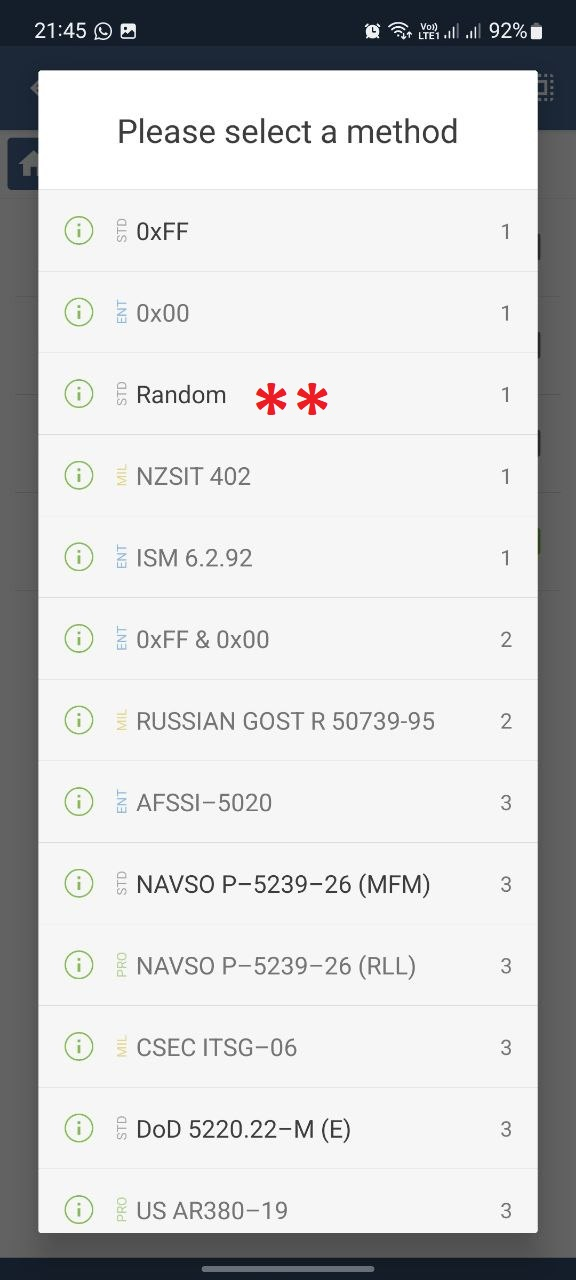
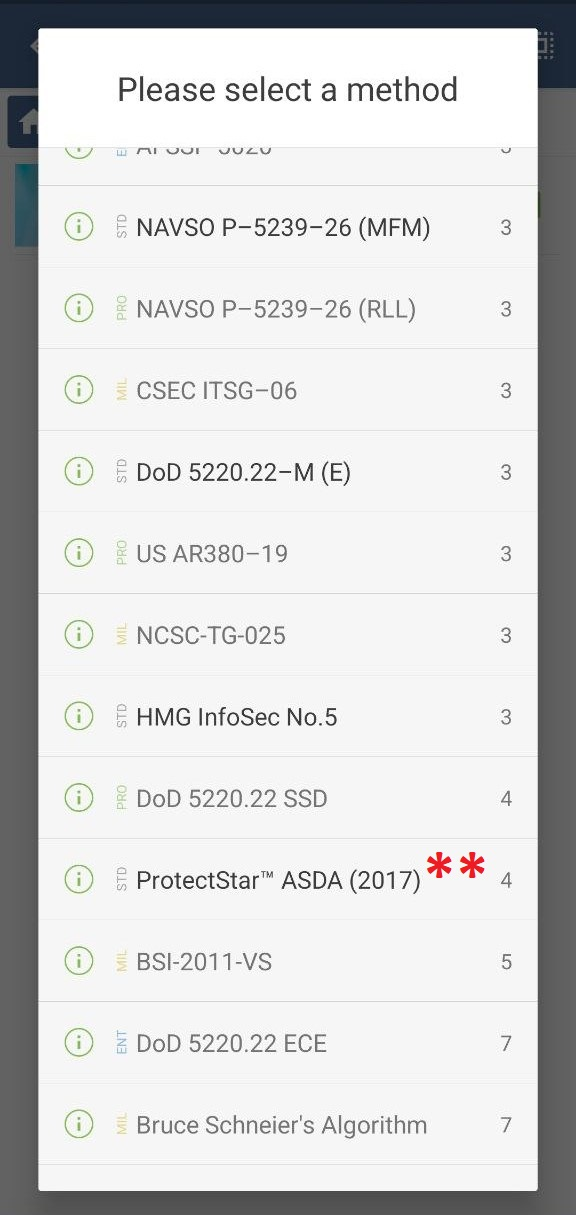
fix ishredder and google imgs

diff --git a/src/components/Workspace.jsx b/src/components/Workspace.jsx
@@ -70,7 +70,7 @@ const Workspace = () => {
 					</div>
 				</div>
 
-				<div class="content content-2 info" id="gmail">
+				<div class="content content-2 info gmail" id="gmail">
 					<h3>
 						خدمة جيميل أو البريد الإلكتروني{' '}
 						<a
@@ -110,7 +110,7 @@ const Workspace = () => {
 					</ul>
 				</div>
 
-				<div class="content content-2 info" id="calender">
+				<div class="content content-2 info calender" id="calender">
 					<h3>
 						خدمة التقويم من جوجل{' '}
 						<a
@@ -167,7 +167,7 @@ const Workspace = () => {
 					</ul>
 				</div>
 
-				<div class="content content-2 info" id="meet">
+				<div class="content content-2 info meet" id="meet">
 					<h3>
 						خدمة الاتصال ومكالمات الفيديو من جوجل{' '}
 						<a
@@ -224,7 +224,7 @@ const Workspace = () => {
 					</ul>
 				</div>
 
-				<div class="content content-2 info" id="drive">
+				<div class="content content-2 info drive" id="drive">
 					<h3>
 						خدمة إدارة الملفات من جوجل{' '}
 						<a
@@ -310,7 +310,7 @@ const Workspace = () => {
 					</ul>
 				</div>
 
-				<div class="content content-2 info" id="chat">
+				<div class="content content-2 info chat" id="chat">
 					<h3>
 						خدمة المحادثات أو الشات من جوجل{' '}
 						<a href=" https://mail.google.com/chat/u/0/#chat/welcome" target="_blank">

diff --git a/src/components/Ishredder.jsx b/src/components/Ishredder.jsx
@@ -279,7 +279,8 @@ const Ishredder = () => {
 								<ul className="shild-list">
 									<li>
 										نقوم بتحديد خوارزمية الحذف والكتابة فوق الملفات ليتم حذفها بطريقة
-										آمنة، من الأفضل أن نختار الخيار "Random"
+										آمنة، من الأفضل أن نختار الخيار "ProtectStar ASDA (2017)" حيث يقوم
+										بالكتابة 4 مرات فوق البيانات المحذوفة بحيث لا يمكن استعادتها
 									</li>
 								</ul>
 								<div className="image">
@@ -413,7 +414,8 @@ const Ishredder = () => {
 								<ul className="child-list">
 									<li>
 										نقوم بتحديد خوارزمية الحذف والكتابة فوق الملفات ليتم حذفها بطريقة
-										آمنة، من الأفضل أن نختار الخيار "Random"
+										آمنة، من الأفضل أن نختار الخيار "ProtectStar ASDA (2017)" حيث يقوم
+										بالكتابة 4 مرات فوق البيانات المحذوفة بحيث لا يمكن استعادتها
 									</li>
 								</ul>
 								<div className="image">

diff --git a/src/App.css b/src/App.css
@@ -796,7 +796,19 @@ ul.apps li:hover a {
 }
 
 @media (max-width: 767px) {
+	.special {
+		flex-direction: column;
+	}
 	.special .image {
 		flex: 70%;
 	}
+}
+
+.gmail img,
+.calender img,
+.meet img,
+.drive img,
+.chat img {
+	border-radius: 5px;
+	border: 1px solid black;
 }
